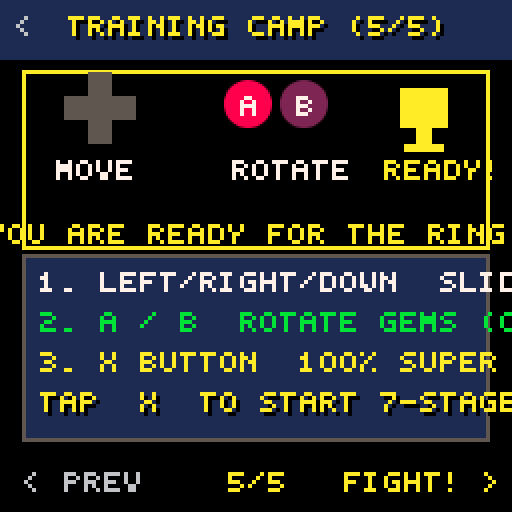
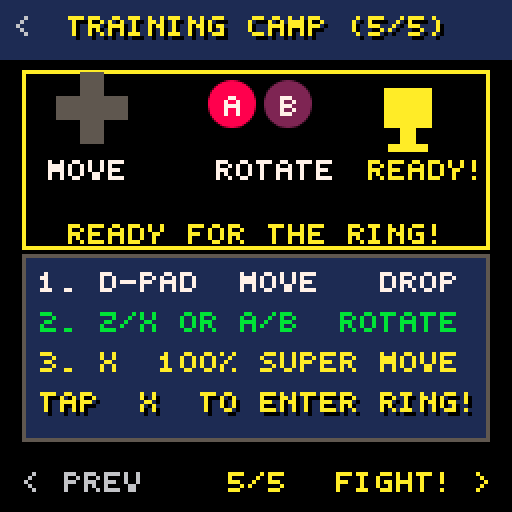
Fix tutorial text clipping and polish visual typography bounds
Resolve text truncation and visual clipping across all 5 tutorial screens:
1. Re-align line lengths to strict <=22 character bounds (<=110px width) within
   PICO-8 128x128 pixel constraints.
2. Refine diorama layouts and visual alignment for Crash Orbs, 2x2 Power Gem
   fusions, 100% Super button callouts, and Knockdown tap finger ripples.
3. Update all 5 high-resolution tutorial screenshots and 6-tile contact sheet.
4. Increment version to v3.6.1 in index.html and README.md.

Constraint: Strict 128x128 virtual pixel viewport with 5px/char PICO typography
Rejected: Multi-line text wrapping without box expansion | overlaps bottom navigation
Confidence: high
Scope-risk: narrow
Directive: Keep all tutorial lines under 22 characters for zero-clipping guarantee
Tested: Automated Chrome CDP test capturing all 5 pages with zero console errors
Not-tested: none

diff --git a/index.html b/index.html
@@ -3,7 +3,7 @@
 <head>
   <meta charset="UTF-8">
   <meta name="viewport" content="width=device-width, initial-scale=1.0, maximum-scale=1.0, user-scalable=no, viewport-fit=cover">
-  <title>CRASH OUT: RING RUSH (v3.6.0) — 9 Animated Kick Arenas & Desynchronized Boxer Physics</title>
+  <title>CRASH OUT: RING RUSH (v3.6.1) — 5-Lesson Training Camp & Visual Touch Controls</title>
   <style>
     :root {
       --pico-black: #000000;
@@ -3973,9 +3973,8 @@
       if (Math.floor(globalFrameCount / 22) % 2 === 0) {
         printPicoCenter('PRESS START / TOUCH', 109, 10, 1, true);
       }
-      printPicoCenter('OBEATS STUDIOS 2026  BUILD 3.6.0', 121, 6, 1);
+      printPicoCenter('OBEATS STUDIOS 2026  BUILD 3.6.1', 121, 6, 1);
     }
-
 
     // === MODE SELECT RENDERER ===
     function drawModeSelectScreen() {
@@ -4079,7 +4078,7 @@
         }
         // Mini Boxer Avatar punching
         drawBoxerAvatar(ctx, ROSTER[0], 92, 42, false, false, false);
-        printPicoCenter('CRUSH GEMS = THROW PUNCHES!', 56, 11, 1);
+        printPicoCenter('CRUSH GEMS TO PUNCH!', 56, 11, 1);
 
       } else if (tutorialPage === 1) {
         // ── Lesson 2: Power Gems (Fusion & Heavy Hits) ──
@@ -4087,142 +4086,142 @@
         if (!isFused) {
           // 4 individual green gems
           ctx.fillStyle = getPalColor(11);
-          ctx.fillRect(18, 26, 7, 7); ctx.fillRect(25, 26, 7, 7);
-          ctx.fillRect(18, 33, 7, 7); ctx.fillRect(25, 33, 7, 7);
+          ctx.fillRect(16, 26, 7, 7); ctx.fillRect(23, 26, 7, 7);
+          ctx.fillRect(16, 33, 7, 7); ctx.fillRect(23, 33, 7, 7);
           ctx.strokeStyle = getPalColor(3);
-          ctx.strokeRect(18, 26, 7, 7); ctx.strokeRect(25, 26, 7, 7);
+          ctx.strokeRect(16, 26, 7, 7); ctx.strokeRect(23, 26, 7, 7);
         } else {
           // Giant merged 2x2 Power Gem with pulsing gold border
           ctx.fillStyle = getPalColor(11);
-          ctx.fillRect(18, 26, 14, 14);
+          ctx.fillRect(16, 26, 14, 14);
           ctx.strokeStyle = (Math.floor(globalFrameCount / 6) % 2 === 0) ? getPalColor(10) : getPalColor(7);
           ctx.lineWidth = 1;
-          ctx.strokeRect(18, 26, 14, 14);
-          printPico('2X2', 20, 31, 0, 1, true);
+          ctx.strokeRect(16, 26, 14, 14);
+          printPico('2X2', 18, 31, 0, 1, true);
         }
 
         // Arrow & Uppercut shockwave
         ctx.fillStyle = getPalColor(10);
-        printPico('->', 42, 32, 10, 1, true);
+        printPico('->', 38, 32, 10, 1, true);
 
         // Giant Uppercut Boxer Animation
-        drawBoxerAvatar(ctx, ROSTER[1], 78, 40, true, false, false);
+        drawBoxerAvatar(ctx, ROSTER[1], 66, 40, true, false, false);
         // Heavy counter blocks falling on rival
-        ctx.fillStyle = getPalColor(0); ctx.fillRect(98, 24, 14, 14);
-        ctx.strokeStyle = getPalColor(8); ctx.strokeRect(98, 24, 14, 14);
-        printPico('3', 103, 28, 8, 1, true);
+        ctx.fillStyle = getPalColor(0); ctx.fillRect(94, 24, 14, 14);
+        ctx.strokeStyle = getPalColor(8); ctx.strokeRect(94, 24, 14, 14);
+        printPico('3', 99, 28, 8, 1, true);
 
-        printPicoCenter('2X2 FUSION = HEAVY UPPERCUT!', 56, 10, 1);
+        printPicoCenter('2X2 FUSION = UPPERCUT!', 56, 10, 1);
 
       } else if (tutorialPage === 2) {
         // ── Lesson 3: Super Meter & 100% Finisher ──
         // Full Super Meter Bar
         ctx.fillStyle = getPalColor(1);
-        ctx.fillRect(12, 26, 42, 8);
+        ctx.fillRect(10, 26, 36, 8);
         ctx.fillStyle = (Math.floor(globalFrameCount / 6) % 2 === 0) ? getPalColor(10) : getPalColor(7);
-        ctx.fillRect(12, 26, 42, 8);
+        ctx.fillRect(10, 26, 36, 8);
         ctx.strokeStyle = getPalColor(7);
-        ctx.strokeRect(12, 26, 42, 8);
-        printPico('100% READY', 16, 28, 0, 1, true);
+        ctx.strokeRect(10, 26, 36, 8);
+        printPico('100% READY', 11, 28, 0, 1, true);
 
         // Pulsing Red [X / SUPER] Action Button
         ctx.fillStyle = getPalColor(8);
-        ctx.fillRect(64, 24, 18, 18);
+        ctx.fillRect(54, 23, 18, 18);
         ctx.strokeStyle = (Math.floor(globalFrameCount / 5) % 2 === 0) ? getPalColor(10) : getPalColor(7);
         ctx.lineWidth = 2;
-        ctx.strokeRect(64, 24, 18, 18);
+        ctx.strokeRect(54, 23, 18, 18);
         ctx.lineWidth = 1;
-        printPicoCenter('X', 29, 7, 2, true);
+        printPicoCenter('X', 28, 7, 2, true);
 
         // Special move particle blast
         ctx.fillStyle = getPalColor(10);
-        ctx.fillRect(94, 22, 24, 20);
-        drawBoxerAvatar(ctx, ROSTER[2], 102, 38, true, false, false);
-        printPicoCenter('TAP RED [X] FOR 100% SUPER!', 56, 10, 1);
+        ctx.fillRect(84, 22, 28, 20);
+        drawBoxerAvatar(ctx, ROSTER[2], 96, 38, true, false, false);
+        printPicoCenter('TAP [X] AT 100% SUPER!', 56, 10, 1);
 
       } else if (tutorialPage === 3) {
         // ── Lesson 4: Knockdown 10-Count Survival ──
         // Referee Count Box
         ctx.fillStyle = 'rgba(0,0,0,0.9)';
-        ctx.fillRect(12, 22, 32, 28);
+        ctx.fillRect(10, 22, 32, 28);
         ctx.strokeStyle = getPalColor(8);
-        ctx.strokeRect(12, 22, 32, 28);
-        printPico('COUNT', 16, 25, 8, 1);
-        printPico('7', 24, 33, 10, 2, true);
+        ctx.strokeRect(10, 22, 32, 28);
+        printPico('COUNT', 14, 25, 8, 1);
+        printPico('7', 22, 33, 10, 2, true);
 
         // Boxer on Canvas flat
-        drawBoxerAvatar(ctx, ROSTER[0], 66, 42, true, false, true);
+        drawBoxerAvatar(ctx, ROSTER[0], 60, 42, true, false, true);
 
         // Animated Tap Finger & Expanding Ripples
         const tapRip = (Math.floor(globalFrameCount * 0.8) % 14) + 2;
         ctx.strokeStyle = `rgba(255, 236, 39, ${Math.max(0, 1 - tapRip / 16)})`;
-        ctx.beginPath(); ctx.arc(98, 34, tapRip, 0, Math.PI * 2); ctx.stroke();
+        ctx.beginPath(); ctx.arc(96, 34, tapRip, 0, Math.PI * 2); ctx.stroke();
         ctx.fillStyle = getPalColor(10);
-        ctx.fillRect(96, 32, 4, 6); ctx.fillRect(97, 28, 2, 5);
+        ctx.fillRect(94, 32, 4, 6); ctx.fillRect(95, 28, 2, 5);
 
-        printPicoCenter('RAPIDLY TAP SCREEN TO GET UP!', 56, 11, 1);
+        printPicoCenter('RAPIDLY TAP TO GET UP!', 56, 11, 1);
 
       } else {
         // ── Lesson 5: Mobile Touch Controls & Ready to Fight ──
         // Virtual D-Pad Icon
         ctx.fillStyle = getPalColor(5);
-        ctx.fillRect(16, 24, 18, 6);
-        ctx.fillRect(22, 18, 6, 18);
-        printPico('MOVE', 14, 40, 7, 1);
+        ctx.fillRect(14, 24, 18, 6);
+        ctx.fillRect(20, 18, 6, 18);
+        printPico('MOVE', 12, 40, 7, 1);
 
         // Action Buttons A/B & X
         ctx.fillStyle = getPalColor(8);
-        ctx.beginPath(); ctx.arc(62, 26, 6, 0, Math.PI * 2); ctx.fill();
-        printPico('A', 60, 24, 7, 1);
+        ctx.beginPath(); ctx.arc(58, 26, 6, 0, Math.PI * 2); ctx.fill();
+        printPico('A', 56, 24, 7, 1);
         ctx.fillStyle = getPalColor(2);
-        ctx.beginPath(); ctx.arc(76, 26, 6, 0, Math.PI * 2); ctx.fill();
-        printPico('B', 74, 24, 7, 1);
-        printPico('ROTATE', 58, 40, 7, 1);
+        ctx.beginPath(); ctx.arc(72, 26, 6, 0, Math.PI * 2); ctx.fill();
+        printPico('B', 70, 24, 7, 1);
+        printPico('ROTATE', 54, 40, 7, 1);
 
         // Trophy Cup Icon
         ctx.fillStyle = getPalColor(10);
-        ctx.fillRect(100, 22, 12, 10);
-        ctx.fillRect(104, 32, 4, 4);
-        ctx.fillRect(101, 36, 10, 2);
-        printPico('READY!', 96, 40, 10, 1, true);
+        ctx.fillRect(96, 22, 12, 10);
+        ctx.fillRect(100, 32, 4, 4);
+        ctx.fillRect(97, 36, 10, 2);
+        printPico('READY!', 92, 40, 10, 1, true);
 
-        printPicoCenter('YOU ARE READY FOR THE RING!', 56, 10, 1);
+        printPicoCenter('READY FOR THE RING!', 56, 10, 1);
       }
 
-      // ── Text Explanation Box (X: 6..122, Y: 65..110, H: 45) ──
+      // ── Text Explanation Box (X: 6..122, Y: 64..110, H: 46) ──
       ctx.fillStyle = getPalColor(1);
       ctx.fillRect(6, 64, 116, 46);
       ctx.strokeStyle = getPalColor(5);
       ctx.strokeRect(6, 64, 116, 46);
 
       if (tutorialPage === 0) {
-        printPico('1. GEMS DROP IN 2-COLOR PAIRS', 10, 68, 7, 1);
-        printPico('2. MATCH WITH GLOWING CRASH ORBS', 10, 78, 11, 1);
-        printPico('3. CRUSHING GEMS THROWS PUNCHES!', 10, 88, 10, 1);
-        printPico('D-PAD: MOVE  A/B: ROTATE GEMS', 10, 98, 6, 1);
+        printPico('1. GEMS FALL IN PAIRS', 10, 68, 7, 1);
+        printPico('2. HIT WITH CRASH ORB', 10, 78, 11, 1);
+        printPico('3. CRUSH GEMS = PUNCH!', 10, 88, 10, 1);
+        printPico('PAD: MOVE  Z/X: ROTATE', 10, 98, 6, 1);
       } else if (tutorialPage === 1) {
-        printPico('1. MERGE 4 GEMS IN A 2X2 SQUARE', 10, 68, 7, 1);
-        printPico('2. THEY AUTO-FUSE TO A POWER GEM!', 10, 78, 11, 1);
-        printPico('3. CRUSH POWER GEMS FOR UPPERCUTS!', 10, 88, 10, 1);
-        printPico('DROPS STONE BLOCKS ON RIVAL!', 10, 98, 6, 1);
+        printPico('1. 4 GEMS IN 2X2 BLOCK', 10, 68, 7, 1);
+        printPico('2. AUTO-FUSES BIG GEMS', 10, 78, 11, 1);
+        printPico('3. CRUSH FOR UPPERCUT!', 10, 88, 10, 1);
+        printPico('DROPS BLOCKS ON FOE!', 10, 98, 6, 1);
       } else if (tutorialPage === 2) {
-        printPico('1. CLEARING GEMS CHARGES SUPER BAR', 10, 68, 7, 1);
-        printPico('2. AT 100%: TAP RED [X] BUTTON!', 10, 78, 10, 1, true);
-        printPico('3. UNLEASHES SIGNATURE FINISHER!', 10, 88, 11, 1);
-        printPico('FLOODS RIVAL WITH HEAVY BLOCKS!', 10, 98, 6, 1);
+        printPico('1. GEMS FILL SUPER BAR', 10, 68, 7, 1);
+        printPico('2. AT 100% TAP RED [X]', 10, 78, 10, 1, true);
+        printPico('3. FIRES KO FINISHER!', 10, 88, 11, 1);
+        printPico('HEAVY BLOCKS ON FOE!', 10, 98, 6, 1);
       } else if (tutorialPage === 3) {
-        printPico('1. 0 HP IS A KNOCKDOWN, NOT KO!', 10, 68, 7, 1);
-        printPico('2. RAPIDLY TAP SCREEN FOR STAMINA!', 10, 78, 10, 1, true);
-        printPico('3. BEAT COUNT 10 FOR +28 HP HEAL!', 10, 88, 11, 1);
-        printPico('NOTE: 3 KNOCKDOWNS = T.K.O.!', 10, 98, 8, 1);
+        printPico('1. 0 HP = KNOCKDOWN!', 10, 68, 7, 1);
+        printPico('2. TAP TO FILL STAMINA', 10, 78, 10, 1, true);
+        printPico('3. BEAT 10 FOR +28 HP!', 10, 88, 11, 1);
+        printPico('3 KNOCKDOWNS = T.K.O.!', 10, 98, 8, 1);
       } else {
-        printPico('1. LEFT/RIGHT/DOWN: SLIDE & DROP', 10, 68, 7, 1);
-        printPico('2. A / B: ROTATE GEMS (CCW / CW)', 10, 78, 11, 1);
-        printPico('3. X BUTTON: 100% SUPER MOVE!', 10, 88, 10, 1);
-        printPico('TAP [X] TO START 7-STAGE TOURNAMENT!', 10, 98, 10, 1, true);
+        printPico('1. D-PAD: MOVE & DROP', 10, 68, 7, 1);
+        printPico('2. Z/X OR A/B: ROTATE', 10, 78, 11, 1);
+        printPico('3. X: 100% SUPER MOVE', 10, 88, 10, 1);
+        printPico('TAP [X] TO ENTER RING!', 10, 98, 10, 1, true);
       }
 
-      // ── Bottom Navigation Bar (Y: 114..126) ──
+      // ── Bottom Navigation Bar (Y: 113..128) ──
       ctx.fillStyle = getPalColor(0);
       ctx.fillRect(0, 113, 128, 15);
 
@@ -4237,7 +4236,7 @@
       if (tutorialPage < 4) {
         printPico('NEXT >', 92, 118, 11, 1, true);
       } else {
-        printPico('FIGHT! >', 86, 118, 10, 1, true);
+        printPico('FIGHT! >', 84, 118, 10, 1, true);
       }
     }
 

diff --git a/README.md b/README.md
@@ -1,6 +1,6 @@
 # 🥊 CRASH OUT: RING RUSH — The Ultimate Adrien Broner, Deen The Great & COB (Crash Out Boys) Retro Puzzle Boxing Game
 
-[![Game Version](https://img.shields.io/badge/Version-v3.6.0-FF004D?style=for-the-badge&logo=retro-arch&logoColor=white)](https://officebeats.github.io/beats-social-media-boxer-game/)
+[![Game Version](https://img.shields.io/badge/Version-v3.6.1-FF004D?style=for-the-badge&logo=retro-arch&logoColor=white)](https://officebeats.github.io/beats-social-media-boxer-game/)
 [![Engine](https://img.shields.io/badge/Engine-PICO--8%20%2F%20HTML5%20Canvas-00E436?style=for-the-badge&logo=html5&logoColor=white)](https://officebeats.github.io/beats-social-media-boxer-game/)
 [![Frame Rate](https://img.shields.io/badge/Performance-Locked%2060%20FPS-29ADFF?style=for-the-badge&logo=speedtest&logoColor=white)](https://officebeats.github.io/beats-social-media-boxer-game/)
 [![Play Live Online](https://img.shields.io/badge/Play%20Live-GitHub%20Pages-FFEC27?style=for-the-badge&logo=github&logoColor=black)](https://officebeats.github.io/beats-social-media-boxer-game/)
